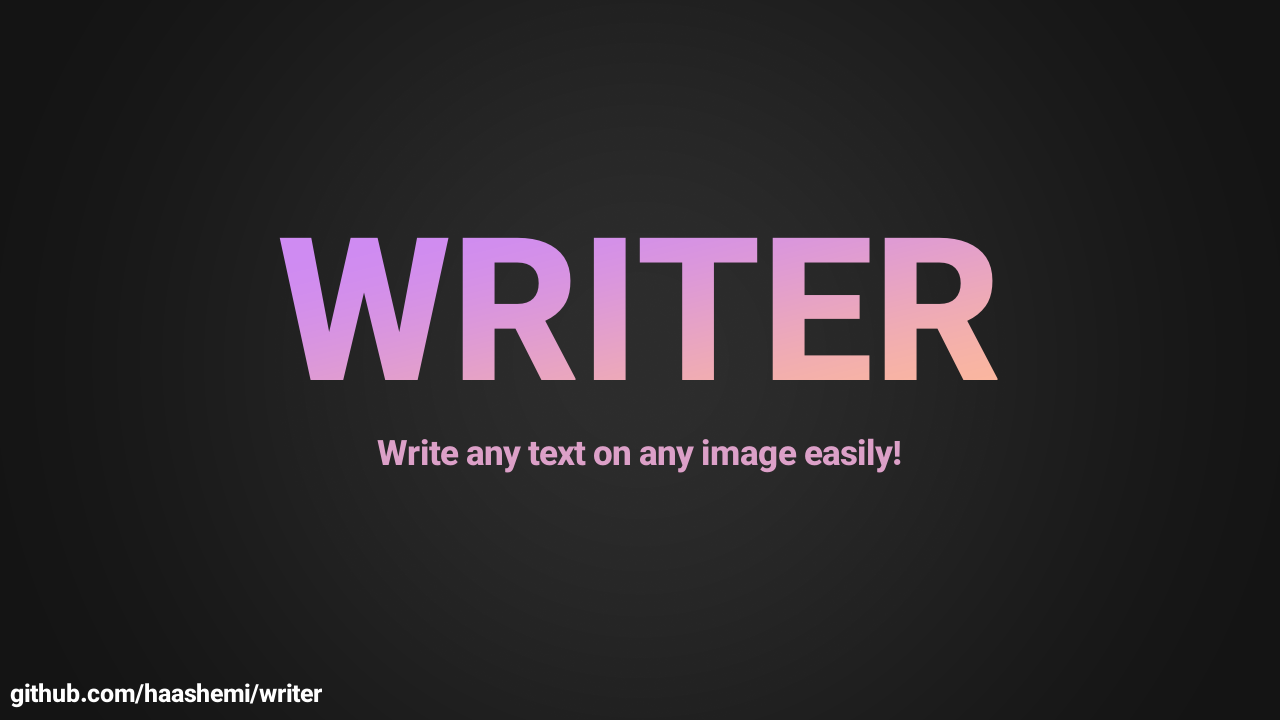
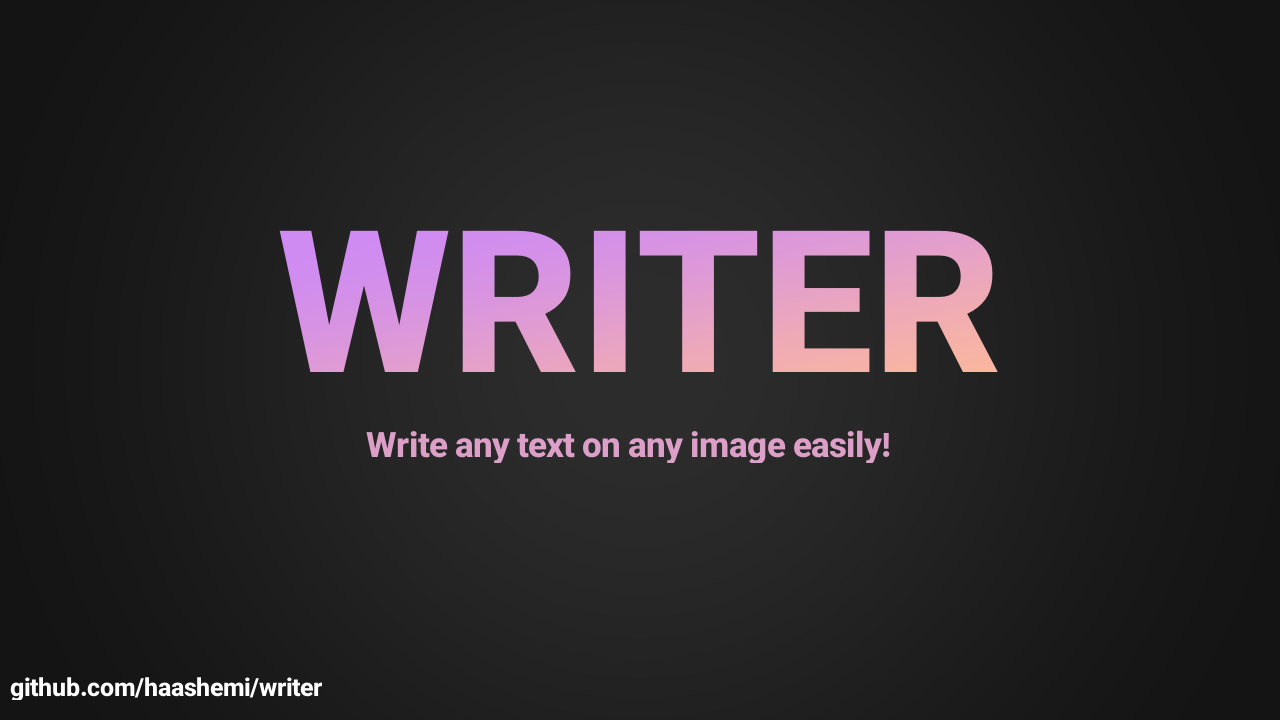
chore: update the examples

diff --git a/example/banner/main.go b/example/banner/main.go
@@ -38,7 +38,7 @@ func writeTitle(face *writer.Face, img draw.Image) {
 	textImage := painter.New(bounds.Dx(), bounds.Dy())
 	painter.DrawLinearGradient(textImage, textImage.Rect, 200, color.NRGBA{207, 139, 243, 255}, color.NRGBA{253, 185, 155, 255})
 
-	w.Write(img, bounds.Add(image.Pt((img.Bounds().Dx()-bounds.Dx())/2, 180)), textImage)
+	w.Write(img, image.Pt((img.Bounds().Dx()-bounds.Dx())/2, 230), textImage)
 }
 
 func writeDescription(face *writer.Face, img draw.Image) {
@@ -53,7 +53,7 @@ func writeDescription(face *writer.Face, img draw.Image) {
 
 	bounds := w.Bounds()
 
-	w.Write(img, bounds.Add(image.Pt((img.Bounds().Dx()-bounds.Dx())/2, 430)), image.NewUniform(color.NRGBA{220, 160, 200, 255}))
+	w.Write(img, image.Pt((img.Bounds().Dx()-bounds.Dx())/2, 430), image.NewUniform(color.NRGBA{220, 160, 200, 255}))
 }
 
 func writeRepoURL(face *writer.Face, img draw.Image) {
@@ -68,5 +68,5 @@ func writeRepoURL(face *writer.Face, img draw.Image) {
 
 	bounds := w.Bounds()
 
-	w.Write(img, bounds.Add(image.Pt(10, img.Bounds().Dy()-bounds.Dy()-5)), image.White)
+	w.Write(img, image.Pt(10, img.Bounds().Dy()-bounds.Dy()-5), image.White)
 }

diff --git a/example/gradient-text/main.go b/example/gradient-text/main.go
@@ -43,7 +43,7 @@ func main() {
 	painter.DrawLinearGradient(textImage, textImage.Rect, 0, color.NRGBA{207, 139, 243, 255}, color.NRGBA{253, 185, 155, 255})
 
 	// Write it on your image
-	w.Write(img, bounds.Add(image.Pt(x, y)), textImage)
+	w.Write(img, image.Pt(x, y), textImage)
 
 	// Save the image. (doesn't matter how.)
 	painter.SavePNG(img, "gradient-text/result.png")

diff --git a/example/bidi-text/main.go b/example/bidi-text/main.go
@@ -40,7 +40,7 @@ func main() {
 	y := (img.Rect.Dy() - bounds.Dy()) / 2
 
 	// Write it on your image
-	w.Write(img, bounds.Add(image.Pt(x, y)), image.White)
+	w.Write(img, image.Pt(x, y), image.White)
 
 	// Save the image. (doesn't matter how.)
 	f, err := os.Create("bidi-text/result.png")

diff --git a/example/basic/main.go b/example/basic/main.go
@@ -25,7 +25,7 @@ func main() {
 	img := image.NewNRGBA(w.Bounds())
 
 	// Write it on your image
-	w.Write(img, w.Bounds(), image.White)
+	w.Write(img, image.Point{}, image.White)
 
 	// Save the image. (doesn't matter how.)
 	f, _ := os.Create("basic/result.png")
